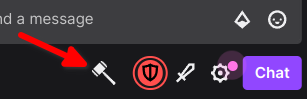
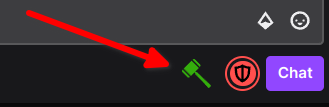
Add new pic's and readme udpated

Changed region(s): [[0.0, 0.0, 0.9967, 0.9091], [0.6743, 0.5152, 0.9967, 0.9091]]

diff --git a/README.md b/README.md
@@ -17,7 +17,6 @@ Wir wollen unseren Mitglieder damit eine einfache Möglichkeit an die Hand geben
 - BannGrund-Funktion hinzugefügt
 - erste unnütze Code-Schnippsel entfernt
 - Follower Überwachung ist schlecht implementiert und wird aktuell nicht genutzt
-- --Um das CORS Problem zu entgehen ist aktuell noch ein weiteres Plugin nötig--
 
 ## Voraussetzungen
 - Eine Möglichkeit im Browser JavaScript auszuführen
@@ -27,21 +26,18 @@ Wir wollen unseren Mitglieder damit eine einfache Möglichkeit an die Hand geben
 	Safari: [Tempermonkey](https://apps.apple.com/us/app/tampermonkey/id1482490089)
 	Opera: [Termpermonkey](https://addons.opera.com/en/extensions/details/tampermonkey-beta/)
 
-
 ## Installation
-Sobald beide Browser Erweiterungen installiert, kann man in Termper-/Grease-/ViolentMonkey ein neues User Script hinzufügen.
-
-Dazu in den sich öffnenden Editor den Inhalt der Datei [tmbbannhammer.user.js](https://github.com/TwitchmodsDACH/Bann-Hammer/raw/main/tmbbannhammer.user.js) kopieren und speichern.
+Wenn Termper-/Grease-/ViolentMonkey installiert ist, diesen Link anklicken: [tmbbannhammer.user.js](https://github.com/TwitchmodsDACH/Bann-Hammer/raw/main/tmbbannhammer.user.js) das User-Script wird in euer ...Monkey geladen.
 
 ![](dokumentation/allesaktiviert.png)
 
-Sobald nun eine Twitch Seite besucht wird (ggf. offene Tabs neuladen) wird in einem Kanal in dem ihr Moderator seid unter dem Chat ein kleiner BannHammer angezeigt:
+Wir eine Twitch Seite besucht (ggf. offene Tabs neuladen), wird in einem Kanal in dem man Moderator unter dem Chat ein kleiner grüner BannHammer angezeigt:
 
 1. Durch anklicken öffnet sich der BannHammer
 
 ![](dokumentation/bannhammer.png)
 
-2. Anklicken des Logos
+2. Anklicken des TwitchModsDACH Logo in der Mitte
 
 ![](dokumentation/bannhammer1.png)
 
